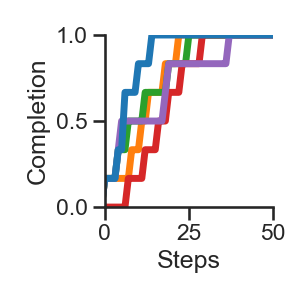
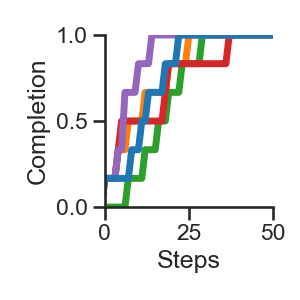
Finished Running on Open Tomato

Changed region(s): [[0.36, 0.09, 0.78, 0.69]]

diff --git a/gym_cooking/envs/overcooked_environment.py b/gym_cooking/envs/overcooked_environment.py
@@ -204,7 +204,7 @@ class OvercookedEnvironment(gym.Env):
             if num_agents == 2:
                 return [ExceptionalChefMerger(), FryingMergingWaiter()]
             elif num_agents == 3:
-                return [ChoppingWaiter(), Chopper(), WaiterDeliverer()]
+                return [ChoppingWaiter(), Merger(), MergingWaiter()]
 
     def reset(self):
         self.world = World(arglist=self.arglist)

diff --git a/gym_cooking/main.py b/gym_cooking/main.py
@@ -96,7 +96,7 @@ def roleAssignmentAlgorithm(typeUsed, num_agents):
         if num_agents == 2:
             return [ExceptionalChefMerger(), FryingMergingWaiter()]
         elif num_agents == 3:
-            return [ChoppingWaiter(), Chopper(), WaiterDeliverer()]
+            return [ChoppingWaiter(), Merger(), MergingWaiter()]
 
 
 def initialize_agents(arglist):

diff --git a/gym_cooking/utils/core.py b/gym_cooking/utils/core.py
@@ -53,11 +53,6 @@ class Cleaner(Role):
     def __init__(self):
         self.probableActions = [Get, Clean]
         self.name = "Cleaner"
-
-class WaiterDeliverer(Role):
-    def __init__(self):
-        self.probableActions = [Merger, Deliver]
-        self.name = "WaiterDeliverer"
     
 class MergingWaiter(Role):
     def __init__(self):
